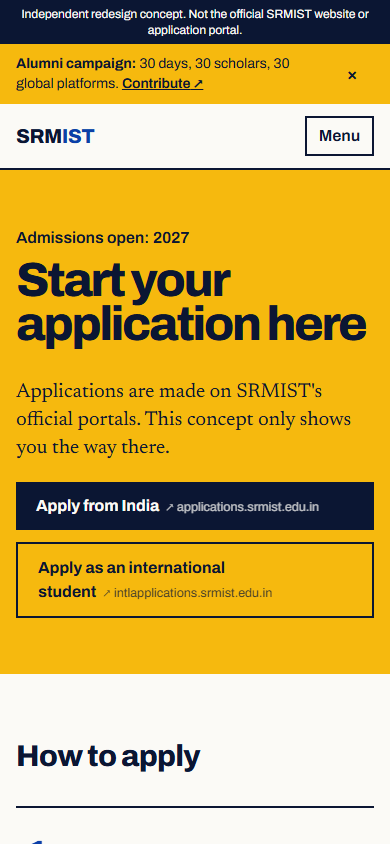
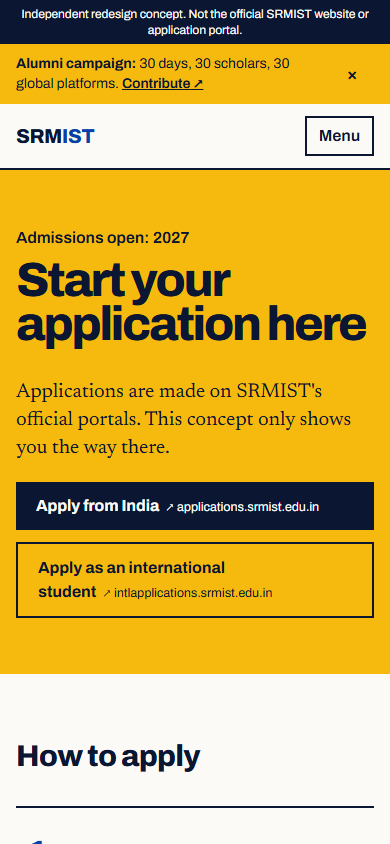
Add As-Is and To-Be audit report, README and final screenshots

Changed region(s): [[0.2769, 0.6777, 0.7077, 0.7085], [0.4308, 0.5853, 0.8308, 0.6161]]

diff --git a/docs/srmist-audit-as-is-to-be.md b/docs/srmist-audit-as-is-to-be.md
@@ -1,0 +1,219 @@
+# SRMIST website audit: As-Is and To-Be
+
+To-Be screenshots show an **independent redesign concept**. It is not the official SRMIST website, and nothing here implies it has replaced the official site or application portal.
+
+## 1. Scope, date, tools and viewports
+
+| Item | Detail |
+| --- | --- |
+| Capture date | 5 November 2026 |
+| Browser | Google Chrome, headless, driven by Playwright 1.64.1 |
+| Accessibility tool | axe-core 4.14.0, rules `wcag2a`, `wcag2aa`, `wcag21aa` |
+| Performance tools | None run. No performance scores are claimed. |
+| As-Is viewports | Desktop 1440x900, mobile 390x844 |
+| To-Be viewports | Desktop 1440x900, tablet 768x1024, mobile 390x844 |
+
+## 2. Pages and journeys inspected
+
+| Journey | Page | URL |
+| --- | --- | --- |
+| Entry | Homepage | https://www.srmist.edu.in/ |
+| Apply | Admissions hub | https://www.srmist.edu.in/admissions/ |
+| Apply | Admission India | https://www.srmist.edu.in/admission-india/ |
+| Apply | Admission International | https://www.srmist.edu.in/admission-international/ |
+| Apply | Engineering scholarships | https://www.srmist.edu.in/admission-india/engineering/scholarships/ |
+| Apply | Application portal | https://applications.srmist.edu.in/ |
+| Choose | Program Finder | https://www.srmist.edu.in/program-finder/ |
+| Choose | B.Arch detail | https://www.srmist.edu.in/program/b-arch-bachelor-of-architecture/ |
+| Research | Research | https://www.srmist.edu.in/research/ |
+| Research | Collaborations | https://www.srmist.edu.in/research/collaborations/ |
+| Trust | Accreditations and rankings | https://www.srmist.edu.in/about-us/accreditations-and-rankings/ |
+
+## 3. Starting audit: what was verified
+
+| Starting finding | Result | Evidence |
+| --- | --- | --- |
+| Campaign overlay covers the homepage | **Confirmed, and worse on mobile** | See H1 and H2 |
+| Counters show `0` or `0+` | **Not a visible bug** | All 14 stayed `0` for 6 seconds without scrolling, then showed real values (1985, 250+, 50,000+) once scrolled into view. `0` is the animation start state. |
+| Academics and Research are `#` links | **Confirmed, cause identified** | They are Elementor Tabs, not a navigation menu. See H3. |
+| Admissions has 2022 notices, 2024 update date | **Confirmed in markup** | "Page Updated: Dec 11th, 2024". The "Latest Updates" block and its SRMJEEE 2022 links sit in a hidden popup (0 height until opened). The popup was not opened and viewed. |
+| Portal lists 2026 admissions | **No longer current** | The portal now shows "ADMISSIONS OPEN: 2027". See A1. |
+| Program Finder has 72 pages | **Confirmed** | 72 pages; 429 entries collected across all level filters. |
+| Campus, college, department selects have no label | **Confirmed** | axe `select-name`, 3 nodes, critical. |
+| No overflow on Program Finder at 390px and 1366px | **Consistent at 390px** | 0px at 390. At 1440 see T1. 1366px was not retested. |
+| 403 from an extraction tool | **Not a defect** | Excluded as instructed. Browser access returned 200. |
+
+## 4. Evidence-based findings
+
+Severity reflects impact on the task. Status is **Confirmed** or **Needs testing**.
+
+### Homepage: https://www.srmist.edu.in/
+
+| ID | User task | Issue and evidence | Severity and impact | Proposed fix | Status |
+| --- | --- | --- | --- | --- | --- |
+| H1 | Reach any content | Overlay appears 3 to 6 seconds after load, after the visitor has started reading. It returned on reload and on a later visit in the same session. It did not appear on Research. | High. Interrupts every homepage visit. | In-flow notice, dismissed once. | Confirmed |
+| H2 | Dismiss the overlay | The close control is a 15x15px `div` with no role, label or tabindex. At 390px its computed style is `display:none`, with the campaign image still on screen. The modal has no `role="dialog"` or `aria-modal`, focus stays on `body`, and all content is an image with empty alt text. Esc does close it on desktop. | High. Touch users get no visible way to close it, and screen readers get no content. | Real text, a labelled 44px button. | Confirmed. Whether tapping outside closes it was not tested. |
+| H3 | Navigate by keyboard | Academics, Research, Campus Life, International and About are `href="#"` links inside `role="tab"` elements (axe `nested-interactive`). Enter opens the panel, but Tab then moves to the next title, not into the panel, and Esc leaves it open. | High. Keyboard users cannot move directly from a title to its links. No landing page exists from the title. | Real link plus a separate menu button. | Confirmed on desktop. Mobile menu by keyboard not tested. |
+| H4 | Understand the page | No `h1`, with 56 `h2` elements. | Medium. Weak structure for assistive technology. | One `h1`, ordered headings. | Confirmed |
+| H5 | Use named controls | axe: `link-name` 36, `button-name` 2, `color-contrast` 17, `nested-interactive` 5, `aria-required-children` 1, `aria-allowed-attr` 1. | High. Unnamed links are announced with no purpose. | Named controls, checked contrast. | Confirmed |
+| H6 | Scan the page | Page height is 14,079px on desktop and 34,159px on mobile. Carousel slides repeat in the DOM. | Medium. Long scroll to reach key tasks. | Three journeys directly below the hero. | Confirmed |
+| H7 | Compare facts | Homepage says "300+ Programs"; the Program Finder holds 429 entries. | Low. The two may count differently. | Define and date the figure. | Needs testing |
+
+### Admissions: https://www.srmist.edu.in/admissions/
+
+| ID | User task | Issue and evidence | Severity and impact | Proposed fix | Status |
+| --- | --- | --- | --- | --- | --- |
+| A1 | Identify the current cycle | Labels differ: header "Admissions 2027", homepage "Admissions 2026-2027", portal "ADMISSIONS OPEN: 2027", and an international "Admission 2027" page linking to `international-application-2026`. | High. Applicants cannot tell which cycle applies. | One label, sourced. | Confirmed |
+| A2 | Find requirements | The hub is mostly campus promotion. Routes, fees and eligibility sit on `/admission-india/`, one level down. | High. The main task is not on the hub. | Steps and routes on the page. | Confirmed |
+| A3 | Trust the facts | Dated claims appear undated or old: ARIIA 2020, and page update Dec 2024. The portal says "Ranked 35th" by NIRF, while the rankings page shows 11 for 2025. | Medium. Conflicting recognition data. | Dated, sourced facts only. | Confirmed |
+| A4 | Find scholarships | Scholarship details are under an Engineering path, with no route from the hub text. | Medium. Applicants in other faculties may miss them. | Funding section on the hub. | Confirmed for the page checked |
+| A5 | Use on mobile | Layout viewport widens to 405px at 390px because of a carousel. Horizontal scroll did not move. | Low. Slight scaling. | Contained layouts. | Needs testing on a real device |
+
+### Program Finder: https://www.srmist.edu.in/program-finder/
+
+| ID | User task | Issue and evidence | Severity and impact | Proposed fix | Status |
+| --- | --- | --- | --- | --- | --- |
+| P1 | Filter programmes | Campus, college and department selects have no accessible name (axe `select-name`, 3, critical). | High. Filters are unusable with a screen reader. | Visible labels. | Confirmed |
+| P2 | Judge the results | No visible result count; 6 results per page across 72 pages. | High. Slow to browse 429 entries. | Live count and progressive loading. | Confirmed |
+| P3 | Read consistent labels | "Programs", "Program Finder" and "Programme" all appear. The campus list includes a stray "(formerly Science and Humanities)" option, and raw markup leaks into department options (`data-counter-prefix`). Seven `h1` elements appear on the page. | Medium. Looks unfinished. | One term, clean options, one `h1`. | Confirmed |
+| P4 | Compare durations | Source values vary: `1`, `1 Year`, `1 Years`, `3-5`, and an encoding fault in `3 � 5 years`. | Low. Hard to filter. | Normalised duration values. | Confirmed |
+
+### Research: https://www.srmist.edu.in/research/
+
+| ID | User task | Issue and evidence | Severity and impact | Proposed fix | Status |
+| --- | --- | --- | --- | --- | --- |
+| R1 | Find my route | Overview, mission, policies, funding, collaborations and centres run on one 10,395px page, not grouped by audience. | High. Each audience must search the whole page. | Task-based pathways. | Confirmed |
+| R2 | Trust the figures | 294+ crores, 660+ projects, 44,500+ and 58,000+ publications, 1,100+ patents appear with no reference date or definition. | Medium. Cannot be cited. | Show source and limits. | Confirmed |
+| R3 | Read the copy | "greate potential", "it It brings", "aMRC", "Volvo' First", "have taken" with a singular subject. | Low. Undermines credibility. | Copy edit. | Confirmed |
+
+### Technical
+
+| ID | Issue and evidence | Severity | Status |
+| --- | --- | --- | --- |
+| T1 | `scrollWidth` exceeds the viewport by 36px at 1440, but `html` has `overflow-x:hidden`, so visitors cannot scroll to it. | None for visitors. Not a defect. | Confirmed |
+| T2 | Portal desktop: decorative `.cloud` element extends about 187px past the viewport. | Low | Needs testing |
+| T3 | Portal mobile: page error `TrustLogo is not defined`. Portal has no `h1` or `main`, and 8 images have no `alt`. | Medium | Confirmed |
+| T4 | No broken images or browser console errors on the 5 main-domain pages at either viewport. | Positive | Confirmed for those loads |
+
+## 5. Comparison summary
+
+| Page | As-Is problem | User impact | To-Be fix |
+| --- | --- | --- | --- |
+| Homepage | Repeating overlay, no `h1`, tab-based menu | Blocked or slowed first task | Three direct journeys, dismissible in-flow notice, real menu controls |
+| Admissions | Promotion first, mixed year labels, hidden stale notices | Hard to find the correct route | Steps, 16 official routes, funding, international waivers, one label |
+| Academics | 72 pages, no count, unlabelled filters | Slow, inaccessible browsing | Search, labelled filters, live count, 429 entries, progressive loading |
+| Research | One long page, undated figures | Audiences must hunt | Three pathways, sourced figures with stated limits, centres directory |
+
+## 6. As-Is and To-Be screenshots
+
+As-Is images are genuine captures of the live pages on 5 November 2026. To-Be images are the implemented concept at the same viewport.
+
+### Homepage
+
+Issue: the overlay hides the main tasks. Impact: visitors must dismiss a campaign first, and mobile shows no close control. Fix: the page leads with the identity and three journeys, and the campaign is a small dismissible strip.
+
+| Viewport | As-Is | To-Be (concept) |
+| --- | --- | --- |
+| Desktop 1440x900 | ![As-Is homepage desktop](screenshots/as-is-home-desktop.png) | ![To-Be homepage desktop concept](screenshots/to-be-home-desktop.png) |
+| Mobile 390x844 | ![As-Is homepage mobile](screenshots/as-is-home-mobile.png) | ![To-Be homepage mobile concept](screenshots/to-be-home-mobile.png) |
+
+Menu comparison:
+
+| As-Is | To-Be (concept) |
+| --- | --- |
+| ![As-Is Academics panel](screenshots/as-is-menu-desktop.png) | ![To-Be Research menu concept](screenshots/to-be-menu-desktop.png) |
+
+### Admissions
+
+Issue: the hub promotes before it guides. Impact: applicants struggle to find their route. Fix: the first screen offers the two official portals, followed by steps and routes.
+
+| Viewport | As-Is | To-Be (concept) |
+| --- | --- | --- |
+| Desktop 1440x900 | ![As-Is admissions desktop](screenshots/as-is-admissions-desktop.png) | ![To-Be admissions desktop concept](screenshots/to-be-admissions-desktop.png) |
+| Mobile 390x844 | ![As-Is admissions mobile](screenshots/as-is-admissions-mobile.png) | ![To-Be admissions mobile concept](screenshots/to-be-admissions-mobile.png) |
+
+### Academics
+
+Issue: no result count, unlabelled filters, 72 pages. Impact: slow and inaccessible discovery. Fix: one labelled search with a live count.
+
+| Viewport | As-Is | To-Be (concept) |
+| --- | --- | --- |
+| Desktop 1440x900 | ![As-Is Program Finder desktop](screenshots/as-is-academics-desktop.png) | ![To-Be academics desktop concept](screenshots/to-be-academics-desktop.png) |
+| Mobile 390x844 | ![As-Is Program Finder mobile](screenshots/as-is-academics-mobile.png) | ![To-Be academics mobile concept](screenshots/to-be-academics-mobile.png) |
+
+### Research
+
+Issue: one long page, not organised by need. Impact: each audience must search. Fix: pathways by audience, with figures that state their limits.
+
+| Viewport | As-Is | To-Be (concept) |
+| --- | --- | --- |
+| Desktop 1440x900 | ![As-Is research desktop](screenshots/as-is-research-desktop.png) | ![To-Be research desktop concept](screenshots/to-be-research-desktop.png) |
+| Mobile 390x844 | ![As-Is research mobile](screenshots/as-is-research-mobile.png) | ![To-Be research mobile concept](screenshots/to-be-research-mobile.png) |
+
+## 7. Technical and accessibility checks
+
+### axe-core violations by rule (nodes affected)
+
+| Page | As-Is | To-Be |
+| --- | --- | --- |
+| Homepage | 6 rules: link-name 36, color-contrast 17, nested-interactive 5, button-name 2, aria-required-children 1, aria-allowed-attr 1 | 0 at all three viewports |
+| Admissions | 6 rules: link-name 7, color-contrast 7, nested-interactive 5, aria-required-children 2, button-name 1, aria-allowed-attr 1 | 0 at all three viewports |
+| Program Finder / Academics | 7 rules: link-name 13, nested-interactive 5, color-contrast 4, select-name 3, aria-required-children 1, button-name 1, aria-allowed-attr 1 | 0 at all three viewports |
+| Research | 6 rules: link-name 17, nested-interactive 5, color-contrast 4, aria-required-children 3, button-name 1, aria-allowed-attr 1 | 0 at all three viewports |
+
+As-Is was tested at 1440x900 with the overlay closed. axe finds only part of all accessibility issues, so zero violations is not proof of full conformance. No screen reader testing was done.
+
+### To-Be functional checks (Playwright, production build)
+
+| Check | Result |
+| --- | --- |
+| `next build` | Success. All routes prerendered as static. |
+| Horizontal overflow at 1440, 768, 390 | 0px on all 4 pages |
+| `h1` count | 1 on each page |
+| Console errors, broken images | None |
+| Finder: all, "computer", plus Ph.D, no match, clear | 429, 39, 2, 0, 429 |
+| Duration filter | Works ("1 year" returns 12) |
+| Menu button by keyboard | Enter opens, Tab enters the menu, Esc closes |
+| Campaign notice | Dismisses and stays dismissed after reload |
+| Homepage links | `/admissions`, `/academics`, `/research` |
+
+## 8. Official content and image sources
+
+Content was read from the pages in section 2 on 5 November 2026. Each fact in `data/site.ts` is tied to one of them.
+
+| Content | Source |
+| --- | --- |
+| 429 programmes (name, level, duration, fee, intake, link) | https://www.srmist.edu.in/program-finder/ |
+| NAAC and NIRF 2025 figures | https://www.srmist.edu.in/about-us/accreditations-and-rankings/ |
+| Application routes | https://www.srmist.edu.in/admission-india/ |
+| International waivers | https://www.srmist.edu.in/admission-international/ |
+| Scholarship categories | https://www.srmist.edu.in/admission-india/engineering/scholarships/ |
+| Research figures, centres, contact | https://www.srmist.edu.in/research/ |
+| Campaign text and link | Homepage overlay, https://alumni.srmist.edu.in/funds/view/2988.dz |
+
+| Image | Official source |
+| --- | --- |
+| `public/images/campus.jpg` | https://www.srmist.edu.in/wp-content/uploads/2025/12/SRM-Institute-of-Science-Technology-Learn.-Leap.-Lead.webp |
+| `public/images/lab.jpg` | https://www.srmist.edu.in/wp-content/uploads/2022/03/Chemistry-research-149-1-1536x1024.jpg |
+| `public/images/servers.jpg` | https://www.srmist.edu.in/wp-content/uploads/2022/04/Techpark_CSE_ServerVOOL7387-e1649845729405.jpg |
+| `public/images/cohort.jpg` | https://www.srmist.edu.in/wp-content/uploads/2024/12/Admission-India-SRMIST-1-Copy.jpg |
+
+These images belong to SRMIST and are used for this concept only. No separate licence was obtained, and they should be cleared before any public use beyond the concept. The people shown in them are identifiable. The official logo is not used; the header uses a plain text wordmark.
+
+## 9. Unresolved facts and access limitations
+
+| Item | Status |
+| --- | --- |
+| Application deadlines and exam dates | **Omitted.** No current official date was verified. The site says so. |
+| Eligibility by programme | **Omitted.** Not verified at scale. Each programme links to its official page. |
+| Campus per programme | **Omitted.** An automated attempt returned all 429 entries for each campus, so the filter had not applied and the result was discarded. The finder uses a duration filter instead. Add campus only after re-collecting it. |
+| College, department, mode and type filters | Not carried over. Same reason. |
+| Portal deep links | **Not opened.** `applications.srmist.edu.in/btech` and `intlapplications.srmist.edu.in` returned HTTP 429 to our automated checks, with a notice saying the event was logged. Requests to the portal stopped there. This is a result of our testing, not a site defect. The links were copied from the official Admission India page, but they need a manual click-through. |
+| Other outbound links | Taken from official pages, not each opened individually. |
+| Fees | 385 of 429 entries list a fee. The rest show none. |
+| Duration | Values such as `1` were read as years, since most source entries use years. |
+| Research figures | No reference period is given by the source. Shown with that caveat. |
+| Scholarship list | Taken from the Engineering page; other faculties may differ. |
+| "Latest Updates" popup | Found in markup, not opened and viewed. |
+| Scope of testing | No real devices, no screen reader, no performance tooling. |
+| Deployment | **Not deployed.** See the README for Vercel steps. |

diff --git a/README.md b/README.md
@@ -1,0 +1,49 @@
+# SRMIST redesign concept
+
+An independent redesign concept based on SRM Institute of Science and Technology's public website. It is not the official website or application portal. It takes no applications, payments or enquiries; every such action links to an official SRMIST site.
+
+| Route | Purpose |
+| --- | --- |
+| `/` | Homepage and entry point to the three journeys |
+| `/admissions` | Applicant journey and official application routes |
+| `/academics` | Programme finder (429 official catalogue entries) |
+| `/research` | Research pathways, record, centres and contact |
+
+Audit report: [docs/srmist-audit-as-is-to-be.md](docs/srmist-audit-as-is-to-be.md)
+
+## Run locally
+
+Requires Node.js 20.9 or later.
+
+```bash
+npm install
+npm run dev
+```
+
+Open http://localhost:3000.
+
+## Production build
+
+```bash
+npm run build
+npm start
+```
+
+## Deploy to Vercel
+
+No environment variables, database or private API are needed.
+
+1. Import this repository at https://vercel.com/new.
+2. Keep the detected Next.js settings and select Deploy.
+
+Or from the command line:
+
+```bash
+npx vercel --prod
+```
+
+## Updating content
+
+- `data/site.ts` holds facts, routes and contacts. Change a value and its `CHECKED` date together, and keep a source for every figure.
+- `data/programmes.json` holds the catalogue. Add verified entries here; the finder needs no code changes.
+- Images are in `public/images`. They are official SRMIST images, used here for a non-commercial concept; see the report for sources.
